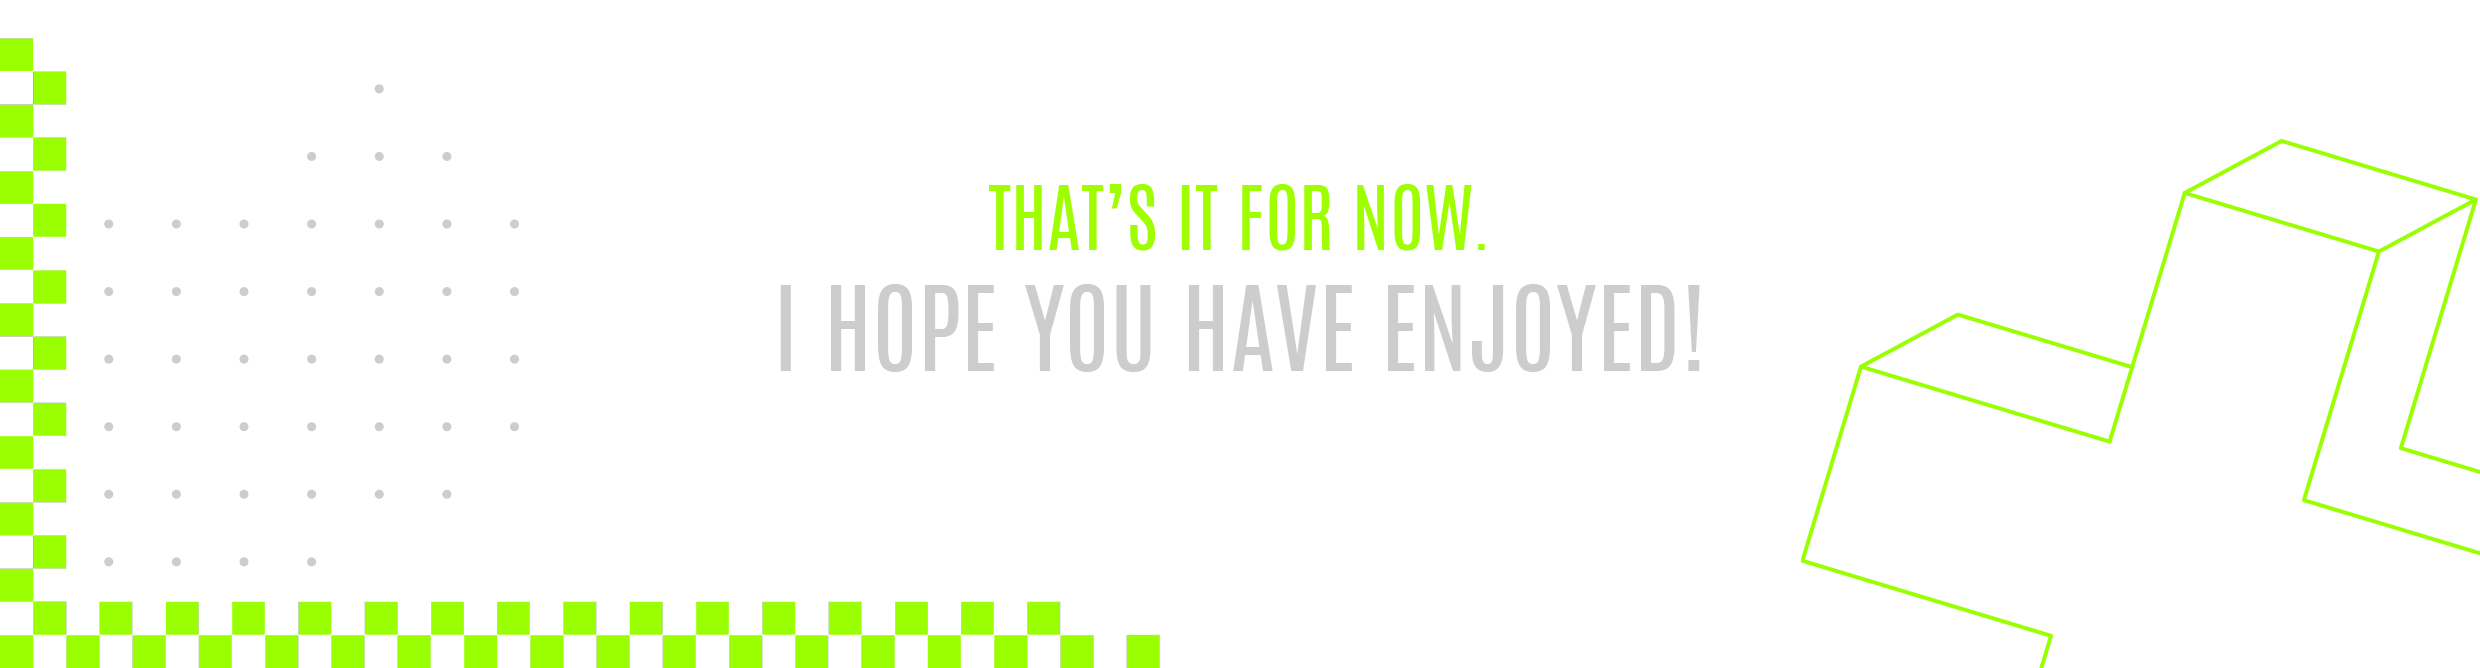
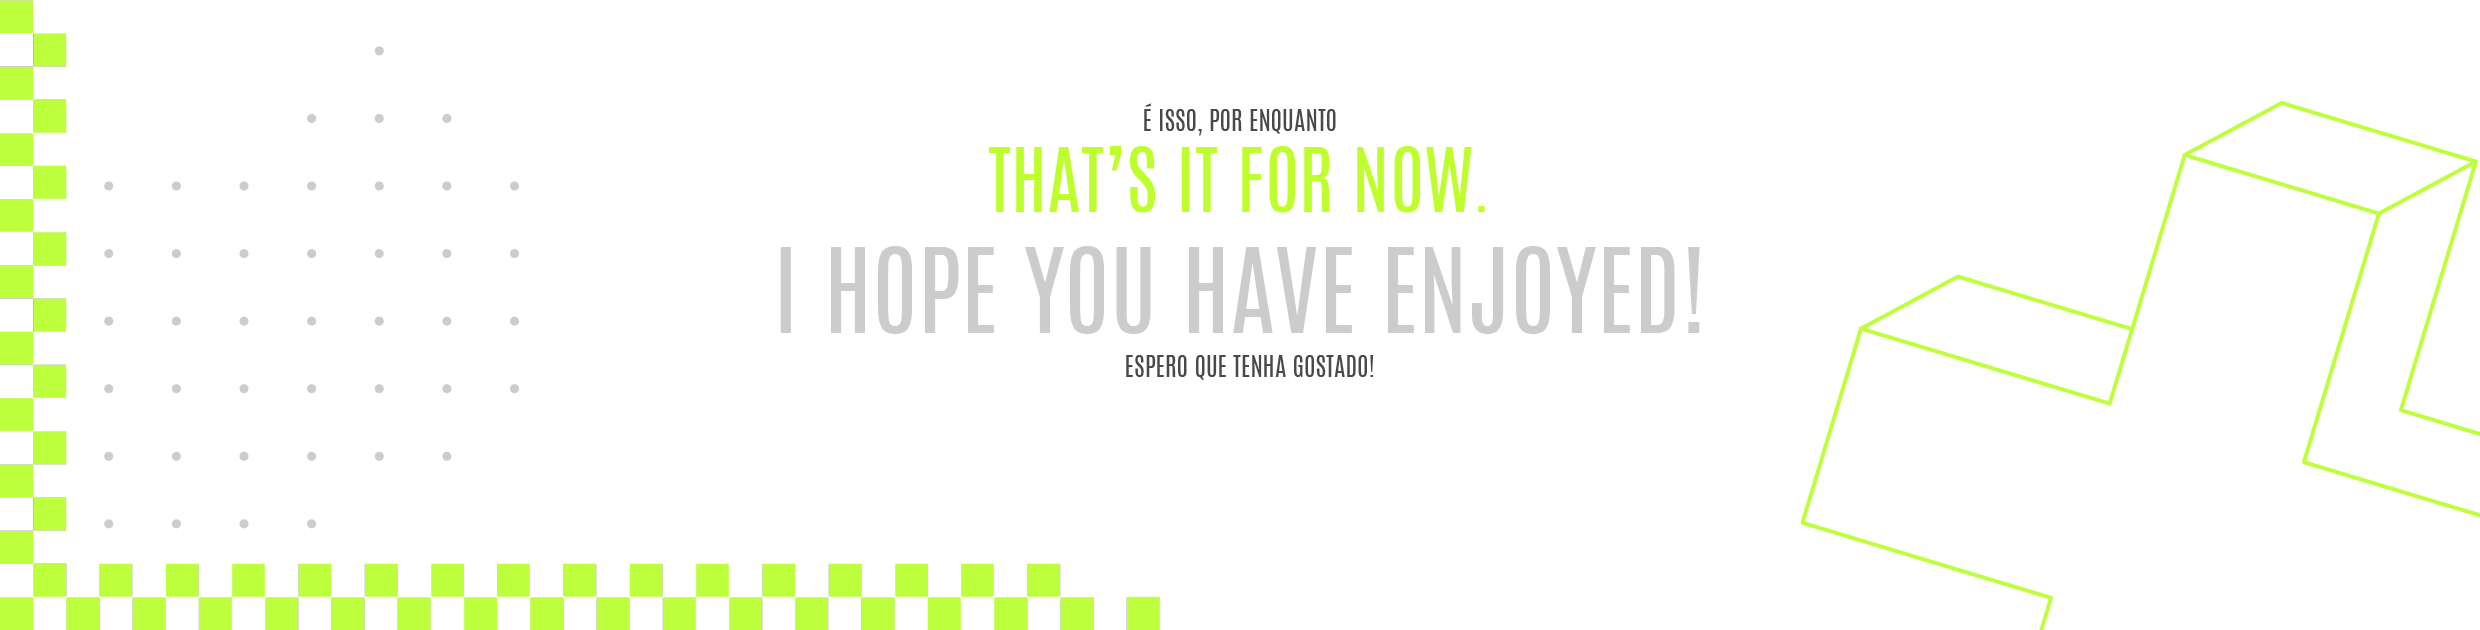
📄 docs: update README

diff --git a/README.md b/README.md
@@ -1,17 +1,45 @@
 ![A pretty README header](assets/Readme-Header.png)
 <br />
 <br />
-![What is this about?](assets/Readme-What-is-this.png)
 
-Rocketseat Discover is a course that guides us through development, covering back-end and front-end, for those who are stepping into technology. It explains the very basics, getting in touch with HTML, CSS, JavaScript and other technologies over time.
-<br />
-<br />
+![Course](./assets/Readme-Mockup.png)
+
 <br />
 <br />
 
-![Progress](assets/Readme-Progress.png)
+![What is this about?](assets/Readme-What-is-this.png) ![Do que se trata?](./assets/Readme-Do-que-se-trata.png/)
+
+B7WEB Fullstack course is, by far, the longest course I've enrolled until now. It has around 800 hours of topics and practices, covering a very huge collection of technologies, getting deep into front-end, back-end and even mobile development. For this last one I am particullary interested, since I haven't touch any mobile development until now. It's a long way to go, but I can affirm that my excitment is also giant!
+
+##### O curso Fullstack da empresa B7WEB é, até agora, o mais longo dos cursos em que eu já participei. Ele tem cerca de 800 horas de aulas, práticas e teóricas, cobrindo uma coleção gigante de tecnologias, adentrando o desenvolvimento front-end, back-end, e até mesmo mobile. Para este último, eu estou particularmente animada, já que eu não me envolvi com nenhum tipo de tecnologia mobile até agora. É uma jornada bem longa, porém minha animação é equivalente.
+
+<br />
+<br />
+<br />
+<br />
+
+![Progress](assets/Readme-Progress.png) ![Progresso](./assets/Readme-Progresso.png)
 
 ![Progress bar](assets/Readme-ProgressBar.png)
+
+
+<br />
+<br />
+<br />
+<br />
+
+
+![What I have learned](./assets/Readme-What-I-have-learned.png) ![O que aprendi](./assets/Readme-O-que-aprendi.png)
+
+|  Topic       |  Content        |  Done        |
+| ------------------ | ------------------ | :--------------------------------------------: |
+|  HTML      | Basics, meta tags, inline style | ![Done](./assets/Readme-Done.png) |
+|  CSS      | Child selectors | ![Done](./assets/Readme-Done.png) |
+|  JavaScript      | Functions, data types, loops | ![Done](./assets/Readme-Done.png) |
+|  React.js      | Components |  |
+|  More updates soon!      |   |
+
+
 <br />
 <br />
 <br />
@@ -20,3 +48,4 @@ Rocketseat Discover is a course that guides us through development, covering bac
 
 
 ![A pretty README footer](assets/Readme-Footer.png)
+
